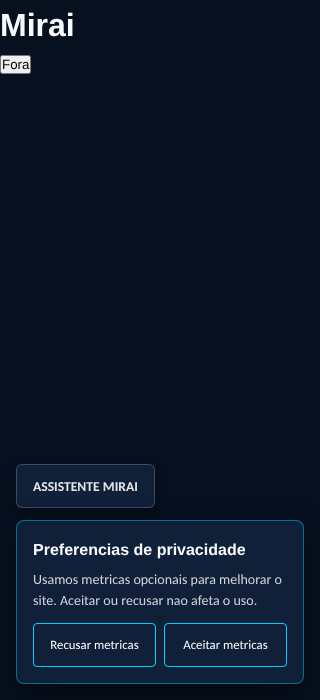
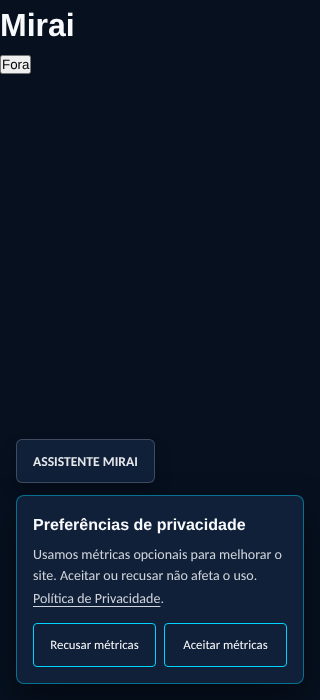
fix(s09): foco inicial no primeiro campo e cabeçalho da cobrança
Com o "Fechar" no cabeçalho, os modais do Admin abrem focando o primeiro
campo; a armadilha de foco continua voltando ao primeiro controle.

Claude-Session: https://claude.ai/code/session_01AfT3sAzprH8WCW7k2heAvS

Changed region(s): [[0.0312, 0.63, 0.9688, 0.87]]

diff --git a/frontend/js/admin/admin_modal.js b/frontend/js/admin/admin_modal.js
@@ -105,7 +105,9 @@ export function openAdminModal(modalOrId, options = {}) {
         const initial = typeof options.initialFocus === "string"
             ? modal.querySelector(options.initialFocus)
             : options.initialFocus;
-        const target = initial || focusableElements(modal)[0] || modal;
+        // Without an explicit target, start on the first field rather than the header's "Fechar".
+        const focusable = focusableElements(modal);
+        const target = initial || focusable.find(element => element.matches("input, select, textarea")) || focusable[0] || modal;
         target?.focus();
     });
     return true;
